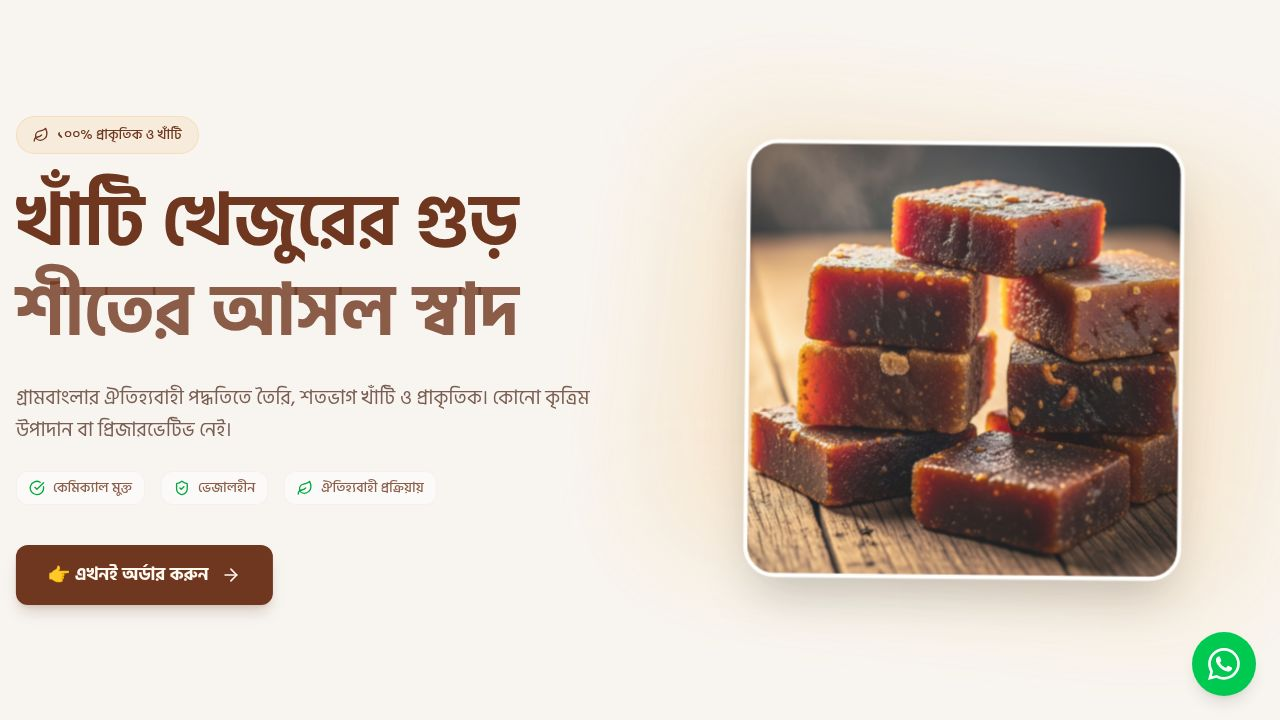
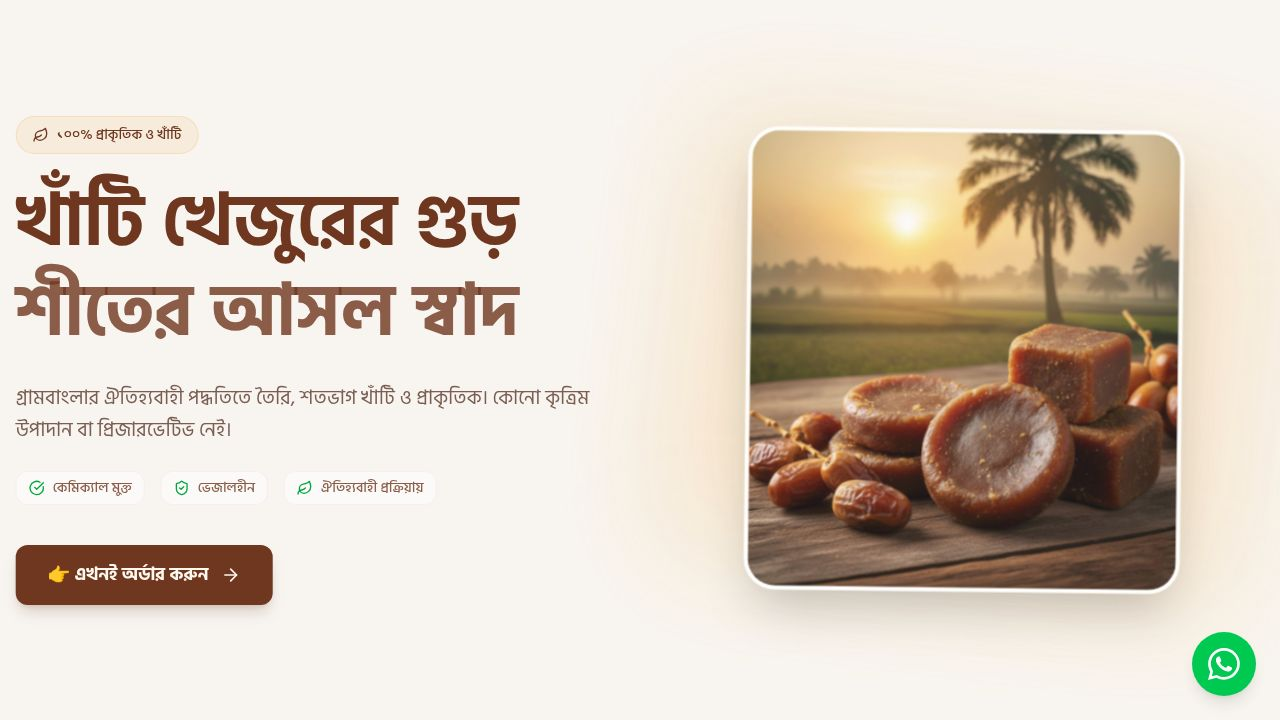
Update hero section image with a new product photo
Change the imported hero image in the Hero component to use the provided product image file.

Replit-Commit-Author: Agent
Replit-Commit-Session-Id: e544b90c-e1e4-45e4-bb50-68cc2349166b
Replit-Commit-Checkpoint-Type: full_checkpoint
Replit-Commit-Event-Id: 8a0edd94-b278-4e89-8f6d-1e28d2b0c781
Replit-Commit-Screenshot-Url: https://storage.googleapis.com/screenshot-production-us-central1/e2b196a2-13a2-40be-9ac4-fbed43c59aa9/e544b90c-e1e4-45e4-bb50-68cc2349166b/bnXj84O
Replit-Helium-Checkpoint-Created: true

diff --git a/client/src/components/landing/Hero.tsx b/client/src/components/landing/Hero.tsx
@@ -1,6 +1,6 @@
 import { motion } from "framer-motion";
 import { ArrowRight, CheckCircle, ShieldCheck, Leaf } from "lucide-react";
-import heroImage from "@assets/generated_images/traditional_bengali_date_molasses_(khejur_gur).png";
+import heroImage from "@assets/unnamed_(8)_1766573220793.jpg";
 
 export default function Hero() {
   const scrollToOrder = () => {
